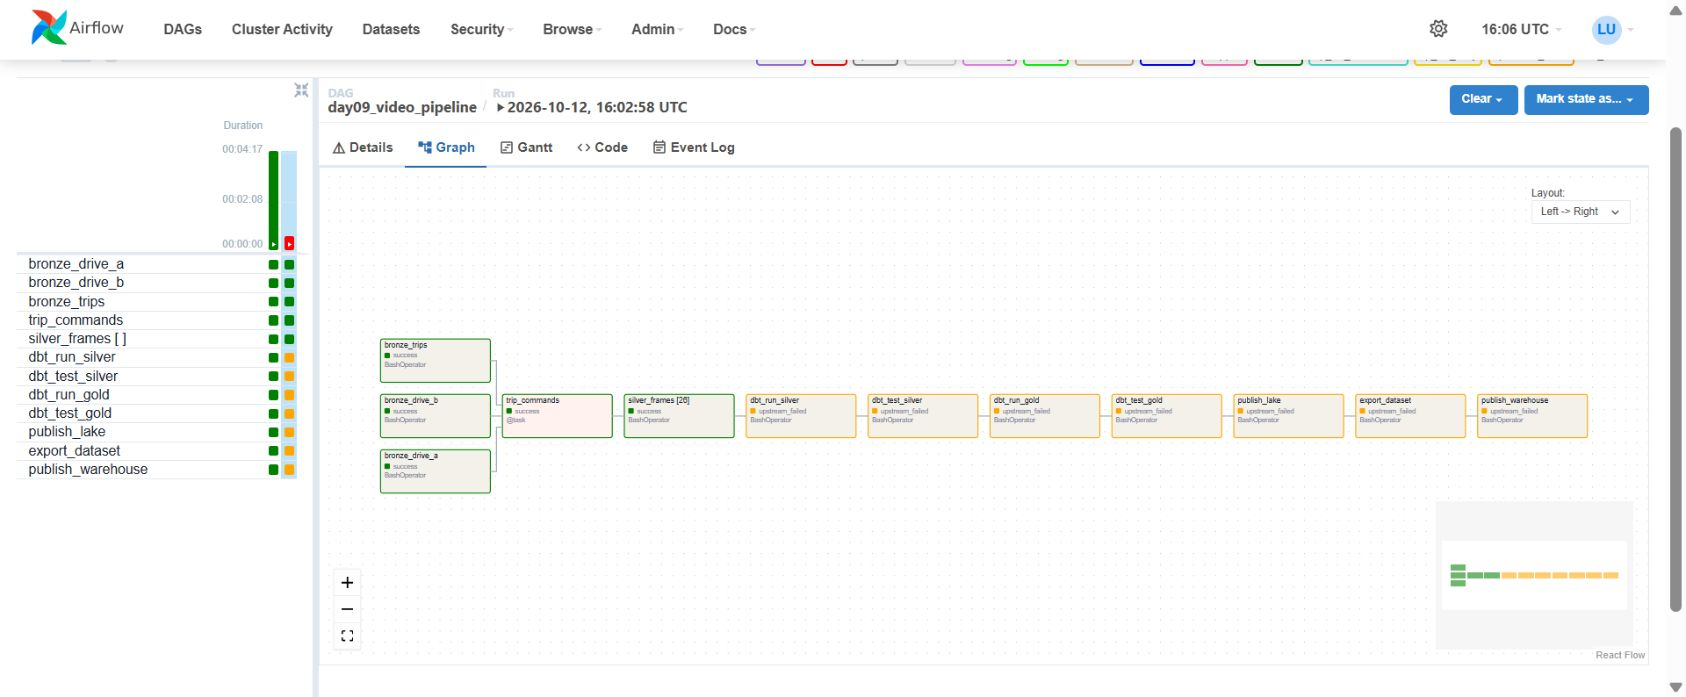
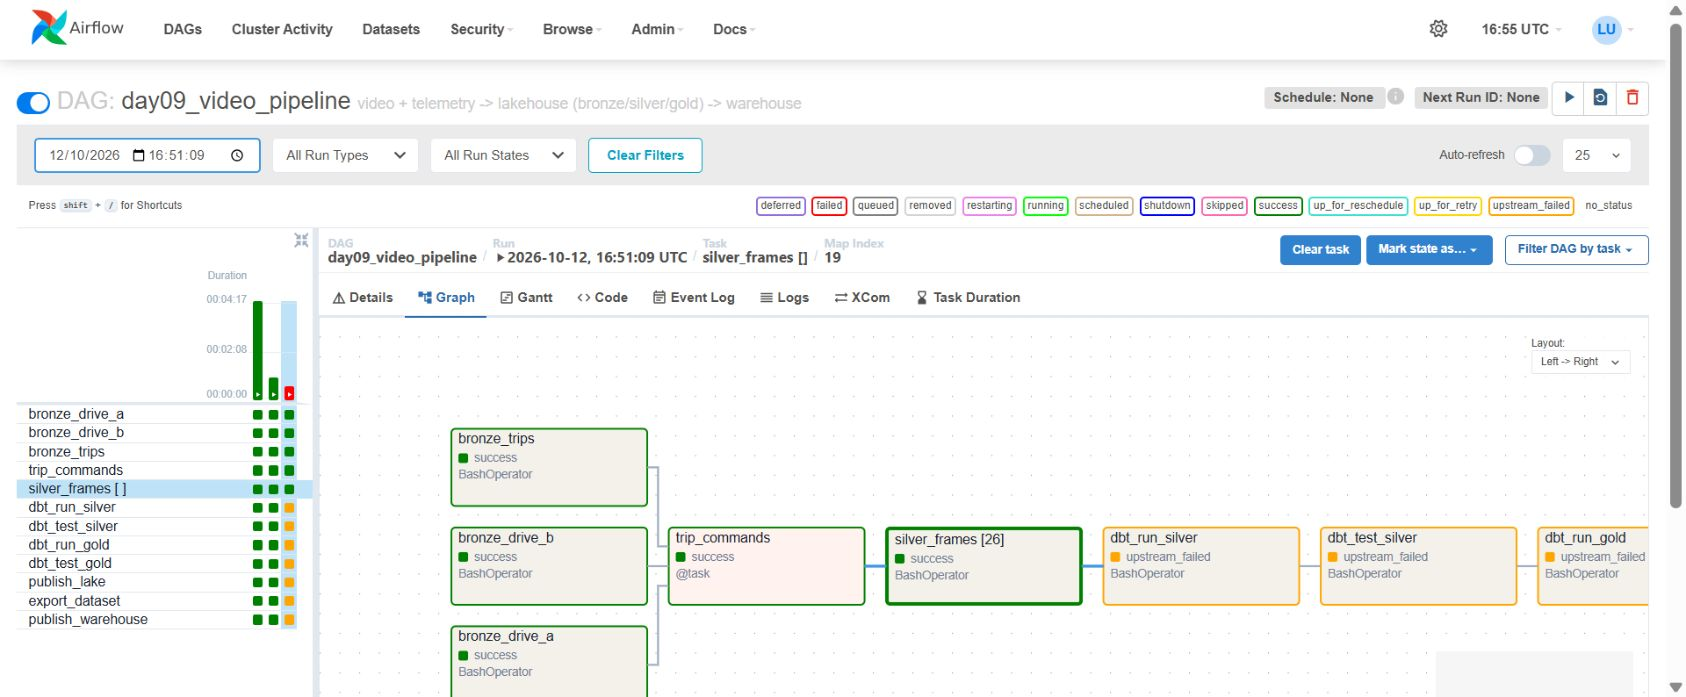
Bước 5: chọn trip bằng 5 số cuối MSSV và chạy lại minh chứng

diff --git a/REPORT.md b/REPORT.md
@@ -7,9 +7,9 @@
 | Họ và tên | Hoàng Văn Nam |
 | MSSV (đúng bằng `LAB_STUDENT_ID` trong `.env`) | 2A202602853 |
 | GitHub | https://github.com/namhv521/K4-L3L4-Track4-DataPipeline4ComputerVision-2A202602853 |
-| Trip dùng cho bài tập sập và chạy lại (xem GUIDE, bước 5) | `trip-03904` |
+| Trip dùng cho bài tập sập và chạy lại (xem GUIDE, bước 5) | `trip-07304` |
 
-MSSV có chữ A nên lệnh `int(MSSV)` trong GUIDE không chạy trực tiếp. Tôi giữ `LAB_STUDENT_ID=2A202602853` cho split, chỉ bỏ chữ A khi chọn trip: `2202602853 % 26 = 9`; phần tử thứ 10 trong danh sách trip đã sắp xếp là `trip-03904`.
+MSSV có chữ A nên lệnh `int(MSSV)` trong GUIDE không chạy trực tiếp. Theo lựa chọn của tôi, dùng 5 số cuối để chọn trip: `int("02853") % 26 = 19`; phần tử thứ 20 trong danh sách trip đã sắp xếp là `trip-07304`. Giữ nguyên `LAB_STUDENT_ID=2A202602853` cho split.
 
 ## Kết quả cuối
 
@@ -104,7 +104,7 @@ Thử ghi đè biến môi trường cho riêng lệnh Bước 4 bằng `2A20260
 ### Câu 8
 Đọc phần `lineage` trong `manifest.json` của dataset bạn. Trả lời "dataset này được tạo từ dữ liệu nào?" bằng chính nội dung đó. Nếu một người hỏi 3 tháng sau, thông tin nào giúp tái tạo lại đúng dataset này?
 
-Manifest của dataset `851b6745b02b` ghi `bronze.raw_telemetry_a=0`, `bronze.raw_telemetry_b=0`, `bronze.trips_raw=0`, `bronze.video_files=1`; `silver.frames=25`, `silver.telemetry=0`, `silver.frames_flagged=0`, `silver.frame_telemetry=0` (snapshot DAG đầu tiên lưu ở `report/evidence/manifest_before_crash.json`).
+Manifest của dataset `851b6745b02b` ghi `bronze.raw_telemetry_a=0`, `bronze.raw_telemetry_b=0`, `bronze.trips_raw=0`, `bronze.video_files=1`; `silver.frames=25`, `silver.telemetry=0`, `silver.frames_flagged=0`, `silver.frame_telemetry=0` (snapshot trước lần sập trip-07304 lưu ở `report/evidence/manifest_before_crash.json`).
[1 lines of base64/hex data omitted]
 Để tái tạo sau 3 tháng cần giữ các snapshot Delta nêu trên, video khớp SHA-256, manifest liệt kê frame/split, metadata trip và offset đồng hồ, MSSV, mã nguồn/config và phiên bản môi trường. `dataset_version` nhận diện danh sách frame/split; chỉ số version Delta không đủ nếu lake đã reset hoặc lịch sử đã bị xóa.
 
@@ -113,9 +113,9 @@ Video A có SHA-256 `636ba1a98dfc5ba665d1c935e1d2064e69f4df360ff9ffbd15795957d5e
 ### Câu 9
 Mô tả chính xác điều xảy ra khi trip của bạn sập rồi chạy lại: bao nhiêu task chuyển đỏ, bao nhiêu task `upstream_failed`, bạn clear gì, dữ liệu có nhân đôi không, `dataset_version` có đổi không? Bằng chứng (ảnh, số) là gì?
 
-Run `manual__2026-10-12T16:02:58+00:00` có đúng 1 task đỏ: `silver_frames[9]`, log ghi `simulated crash while extracting trip-03904; run it again`; 7 task downstream chuyển `upstream_failed`. Tôi tắt lựa chọn Downstream và clear riêng index 9 (Affected Tasks = 1); task này thành công ở try 2, 25 trip còn lại vẫn try 1.
+Run `manual__2026-10-12T16:51:09+00:00` có đúng 1 task đỏ: `silver_frames[19]`, log ghi `simulated crash while extracting trip-07304; run it again`; 7 task downstream chuyển `upstream_failed`. Tôi tắt lựa chọn Downstream và clear riêng index 19 (Affected Tasks = 1); task này thành công ở try 2, 25 trip còn lại vẫn try 1.
 Thực tế trên Airflow 2.10.5, 7 task `upstream_failed` không tự quay về chạy sau khi clear riêng task đỏ như GUIDE mô tả. Tôi clear thêm `dbt_run_silver` cùng downstream (Affected Tasks = 7), không chọn upstream. Đây là 7 task chạy lần đầu sau khi hết chặn; chỉ 1 task trích khung được chạy lại. DAG kết thúc với 37/37 task instance thành công.
-Silver có 1.246 dòng và 1.246 `frame_id` duy nhất; riêng trip-03904 có 22 khung, không nhân đôi. Dataset sau hồi phục vẫn `851b6745b02b`, 1.019 khung với split 689/151/179, bằng trước lỗi.
+Silver có 1.246 dòng và 1.246 `frame_id` duy nhất; riêng trip-07304 có 34 khung, không nhân đôi. Dataset sau hồi phục vẫn `851b6745b02b`, 1.019 khung với split 689/151/179, bằng trước lỗi.
 Bằng chứng: `report/evidence/crash_recovery.json`, `recovered_task_instances.json`, `manifest_before_crash.json`, `manifest_after_recovery.json`; ảnh `airflow_crash_log.png`, `airflow_clear_one.png`, `airflow_after_clear_one.png`, `airflow_clear_downstream.png`, `airflow_recovered_graph.png`.
 
 ### Câu 10
